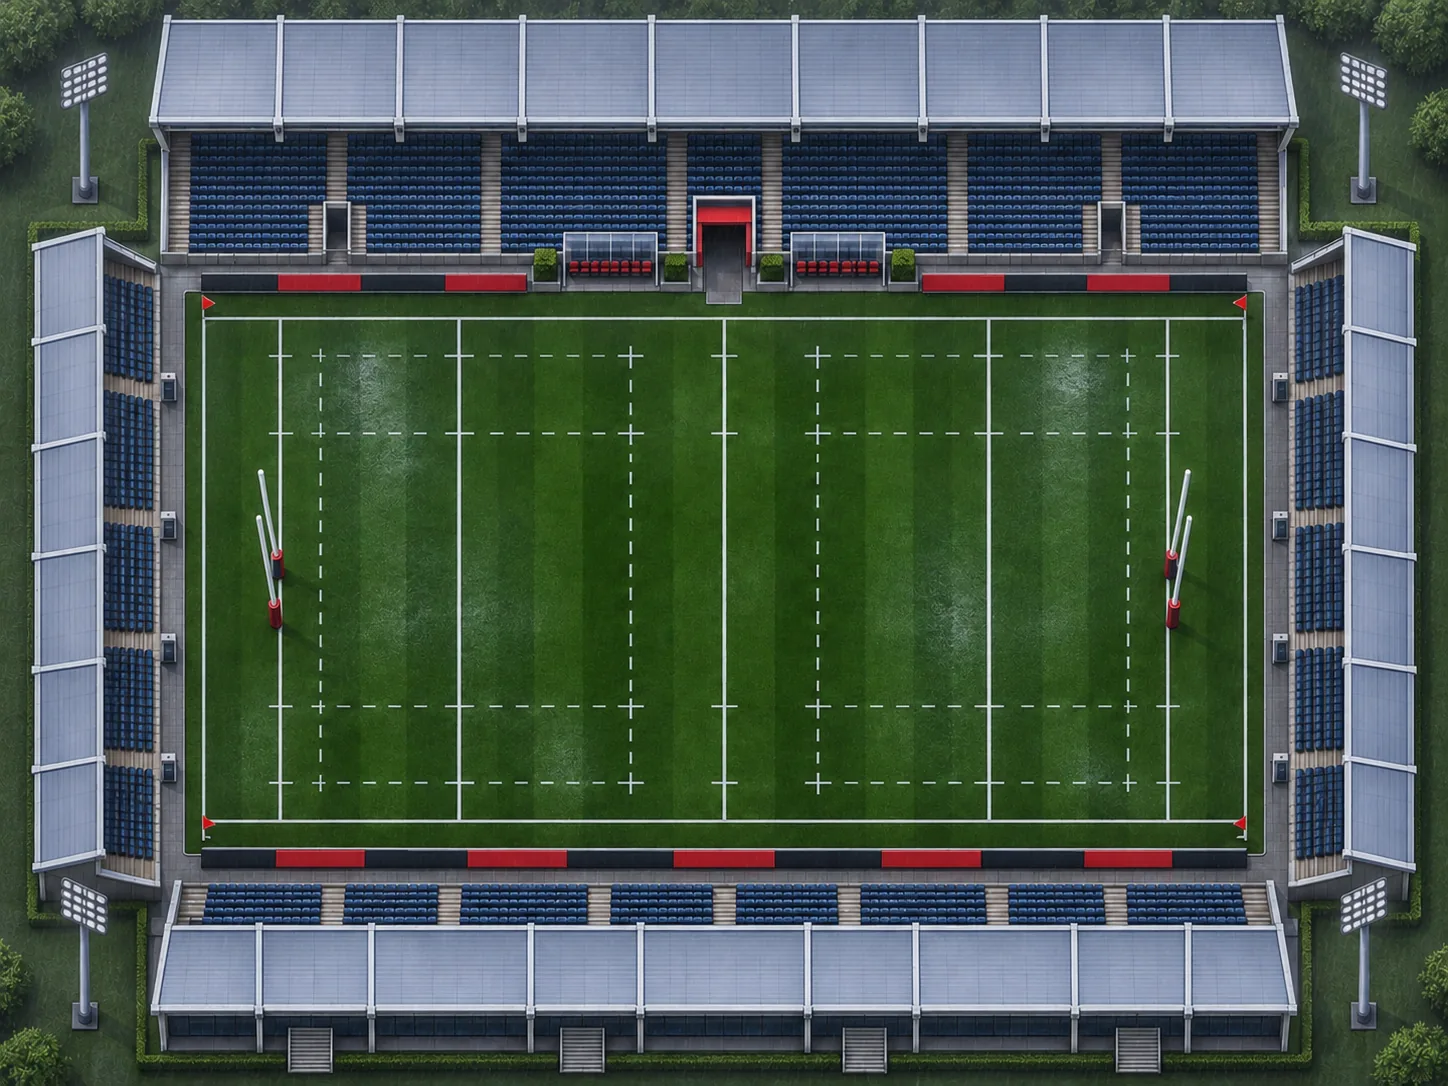
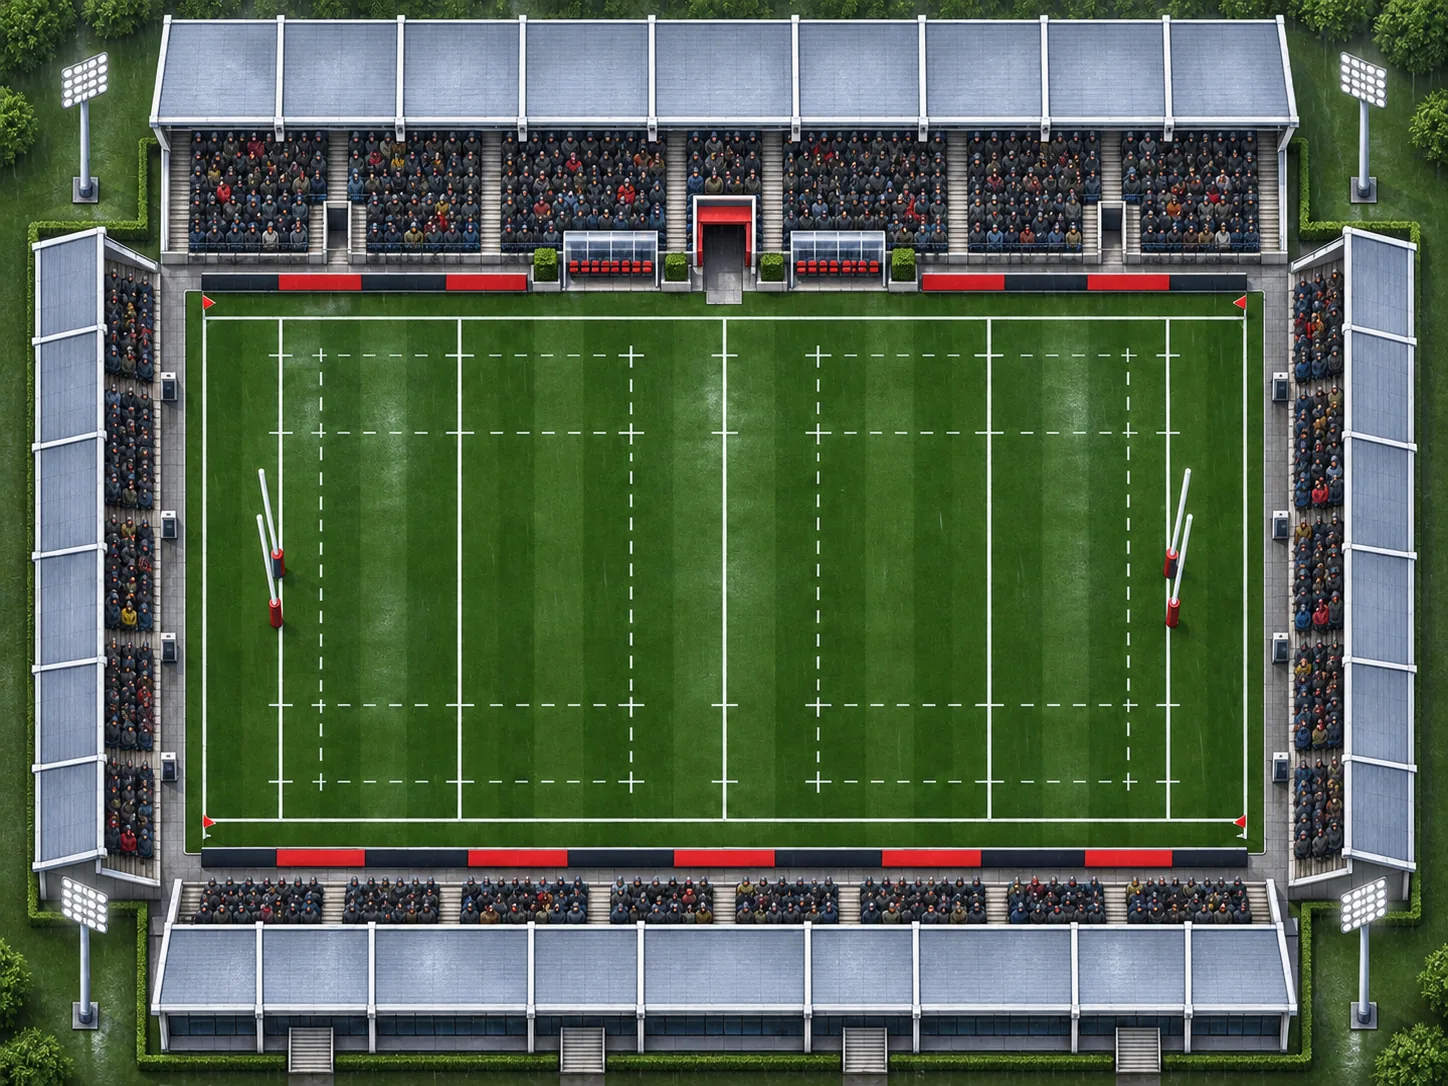
Live pitch: new navy, green and wet grounds with crowds, and a red ground under lights
Claude-Session: https://claude.ai/code/session_01SkkDyCvtWcPrgYWb7jr97e

diff --git a/src/ui/livepitch/LivePitch.tsx b/src/ui/livepitch/LivePitch.tsx
@@ -13,6 +13,7 @@ import artNavy from './stadium-navy.webp'
 import artNight from './stadium-night.webp'
 import artWet from './stadium-wet.webp'
 import artGreen from './stadium-green.webp'
+import artNightRed from './stadium-night-red.webp'
 import type { MatchEvent } from '../../game/model'
 import { readInk, isLight, refereeColour, tokenColor } from '../highlight/draw'
 import { phaseAt, readLine, type Banner, type Phase } from './phase'
@@ -43,23 +44,24 @@ const GOAL = 8
  *  the painter moved the pitch a few pixels between some: x0 and y0 are the
  *  left try line and the far touchline, mx and my the pixels to a metre.) */
 type Stadium = { url: string; w: number; h: number; x0: number; y0: number; mx: number; my: number; seat?: [number, number, number] }
-const GROUNDS: Record<'maroon' | 'red' | 'navy' | 'green' | 'night' | 'wet', Stadium> = {
+const GROUNDS: Record<'maroon' | 'red' | 'navy' | 'green' | 'night' | 'nightRed' | 'wet', Stadium> = {
   maroon: { url: artMaroon, w: 1448, h: 1086, x0: 280.5, y0: 318, mx: 8.87, my: 7.17, seat: [120, 30, 50] },
   red: { url: artRed, w: 1448, h: 1086, x0: 280, y0: 318, mx: 8.87, my: 7.16, seat: [200, 40, 45] },
-  navy: { url: artNavy, w: 1536, h: 1152, x0: 297, y0: 338, mx: 9.41, my: 7.6, seat: [40, 60, 110] },
+  navy: { url: artNavy, w: 1448, h: 1086, x0: 280, y0: 318, mx: 8.87, my: 7.17, seat: [40, 60, 110] },
   green: { url: artGreen, w: 1448, h: 1086, x0: 280, y0: 318, mx: 8.87, my: 7.17, seat: [40, 150, 60] },
-  night: { url: artNight, w: 1448, h: 1086, x0: 277, y0: 318, mx: 8.93, my: 7.19 },
+  night: { url: artNight, w: 1448, h: 1086, x0: 277, y0: 318, mx: 8.93, my: 7.19, seat: [40, 60, 110] },
+  nightRed: { url: artNightRed, w: 1448, h: 1086, x0: 280, y0: 318, mx: 8.875, my: 7.18, seat: [200, 40, 45] },
   wet: { url: artWet, w: 1448, h: 1086, x0: 280, y0: 318, mx: 8.87, my: 7.19 },
 }
 /** which ground a match is played in: the floodlit one at night, the wet one
  *  in rain or snow, otherwise the one whose seats are nearest the home colour */
 const pickGround = (night: boolean, wet: boolean, kit: string): Stadium => {
-  if (night) return GROUNDS.night
-  if (wet) return GROUNDS.wet
+  if (wet && !night) return GROUNDS.wet
   const m = /^#?([0-9a-f]{2})([0-9a-f]{2})([0-9a-f]{2})/i.exec(kit)
   const c = m ? [parseInt(m[1], 16), parseInt(m[2], 16), parseInt(m[3], 16)] : [40, 60, 110]
   let best = GROUNDS.navy, bd = Infinity
-  for (const g of [GROUNDS.navy, GROUNDS.maroon, GROUNDS.red, GROUNDS.green]) { const d = g.seat!.reduce((t, v, i) => t + (v - c[i]) ** 2, 0); if (d < bd) { bd = d; best = g } }
+  if (night) best = GROUNDS.night
+  for (const g of night ? [GROUNDS.night, GROUNDS.nightRed] : [GROUNDS.navy, GROUNDS.maroon, GROUNDS.red, GROUNDS.green]) { const d = g.seat!.reduce((t, v, i) => t + (v - c[i]) ** 2, 0); if (d < bd) { bd = d; best = g } }
   return best
 }
 const artCache = new Map<string, HTMLImageElement>()
